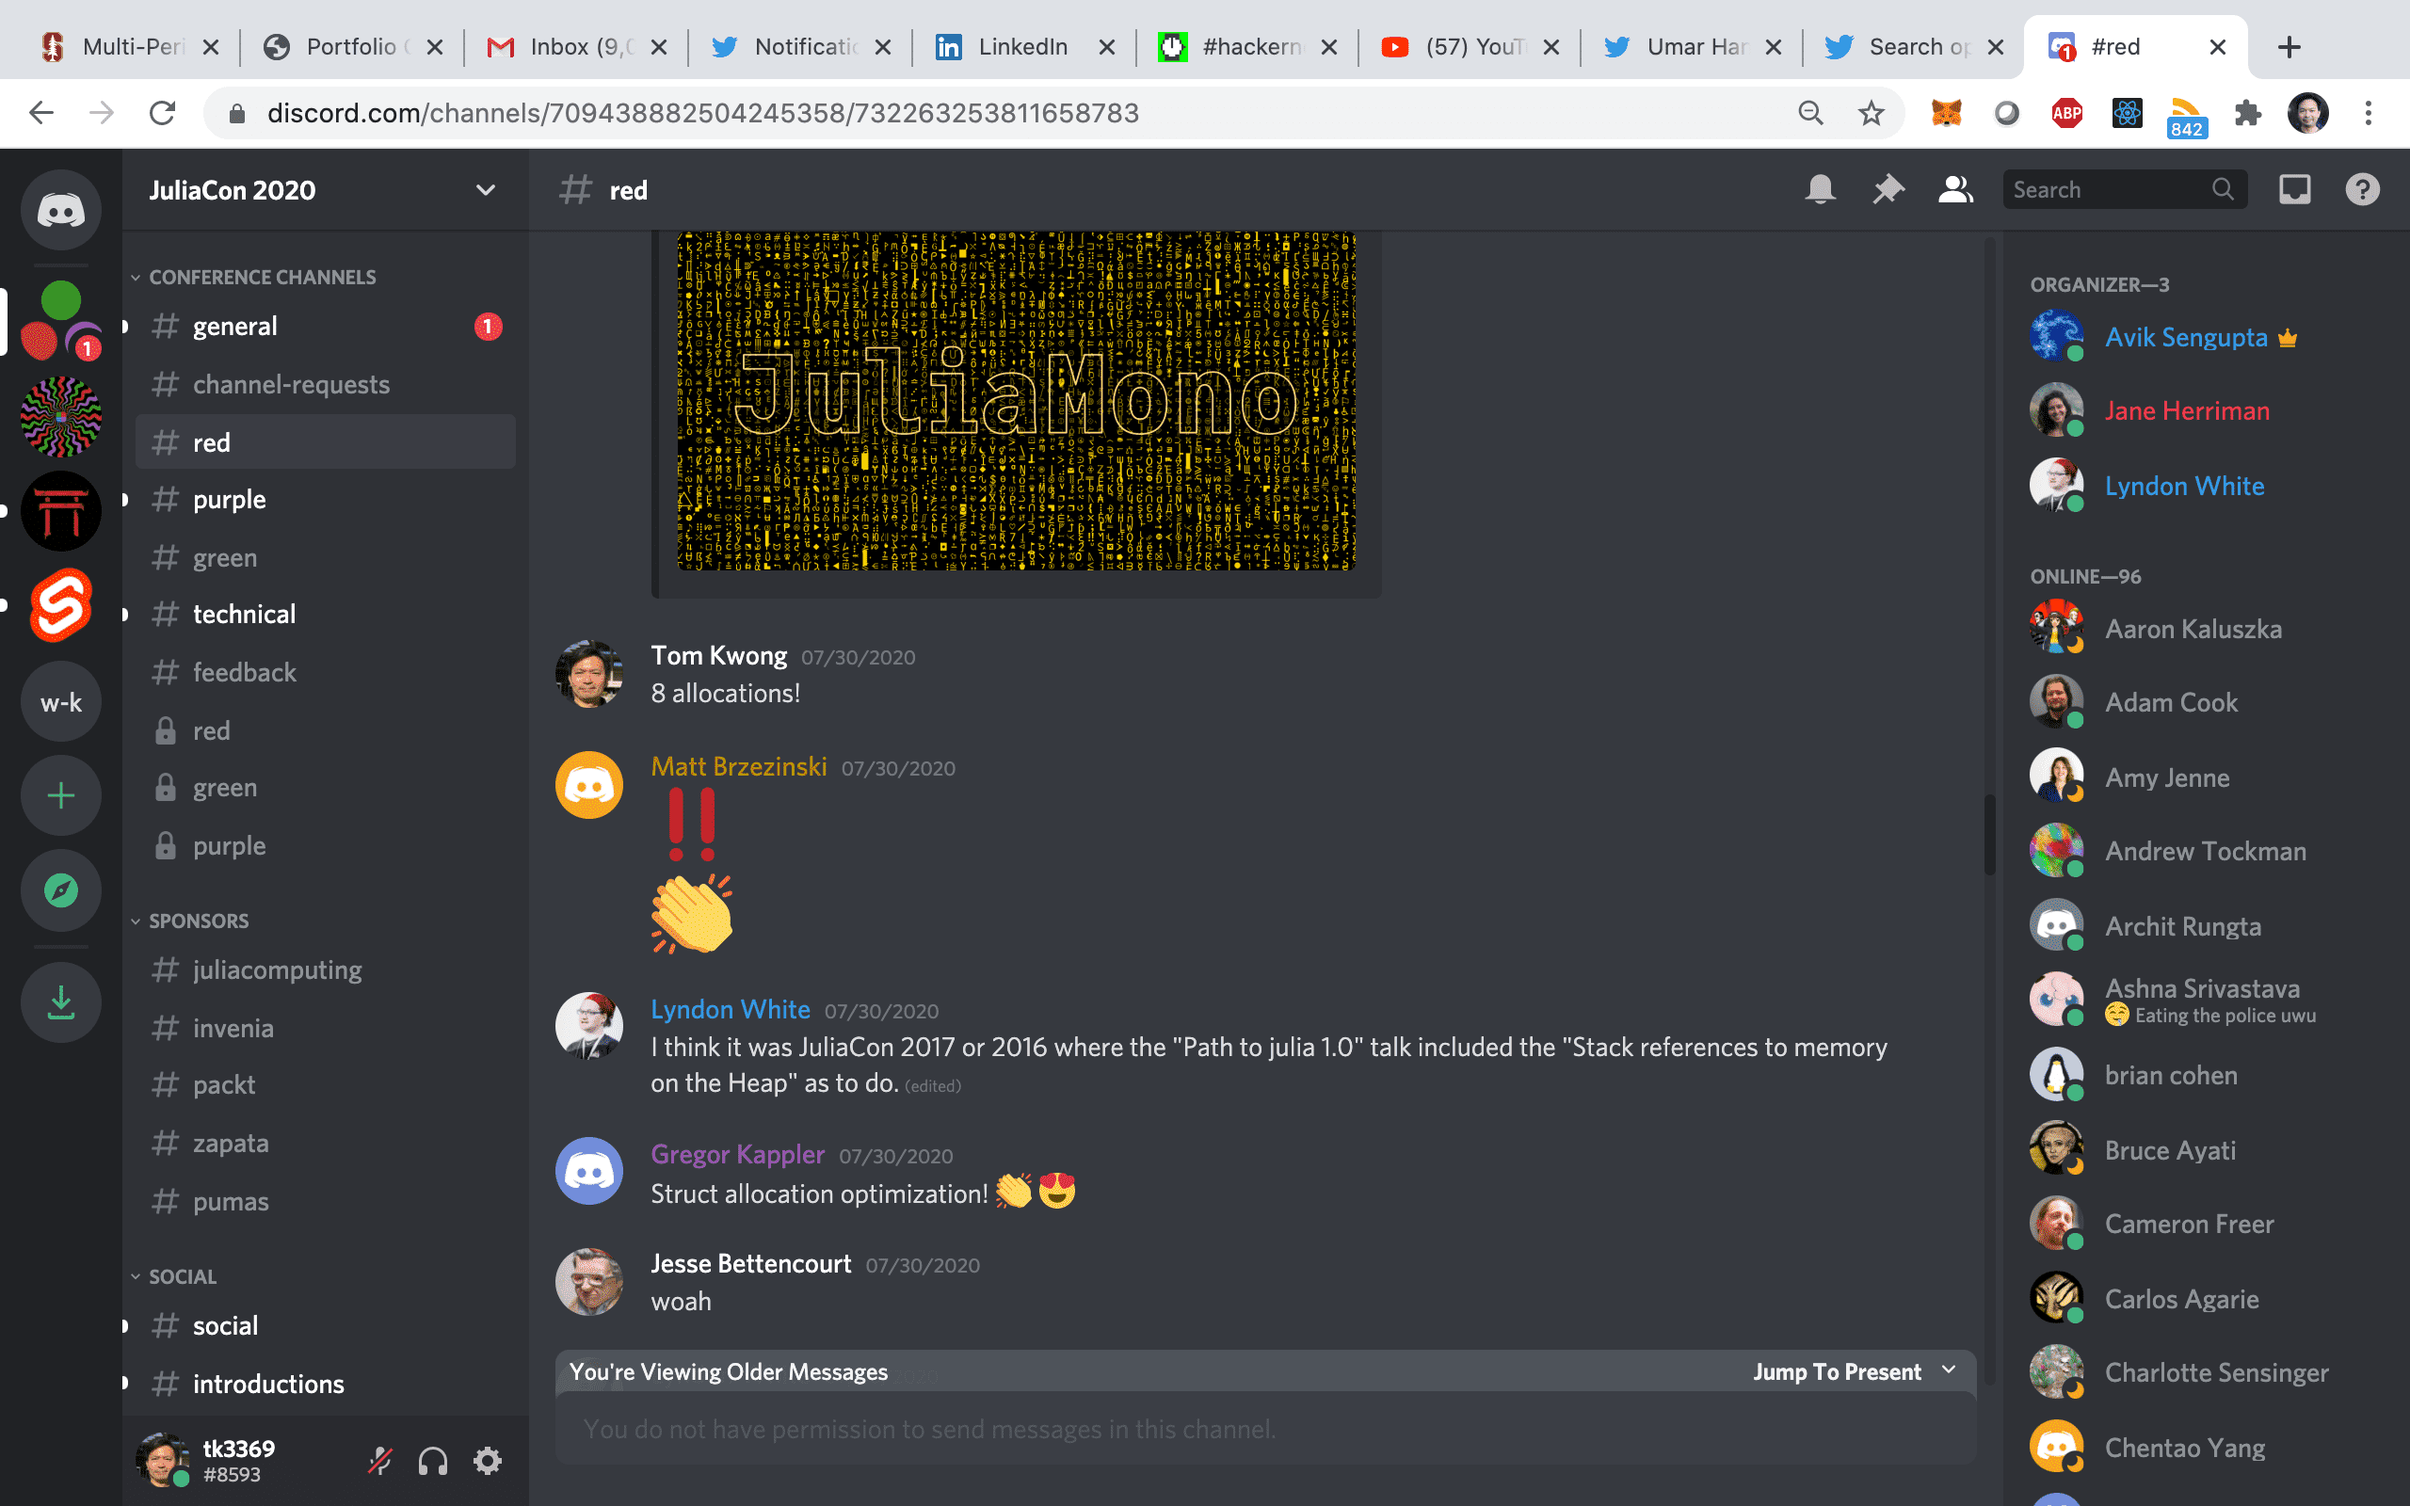
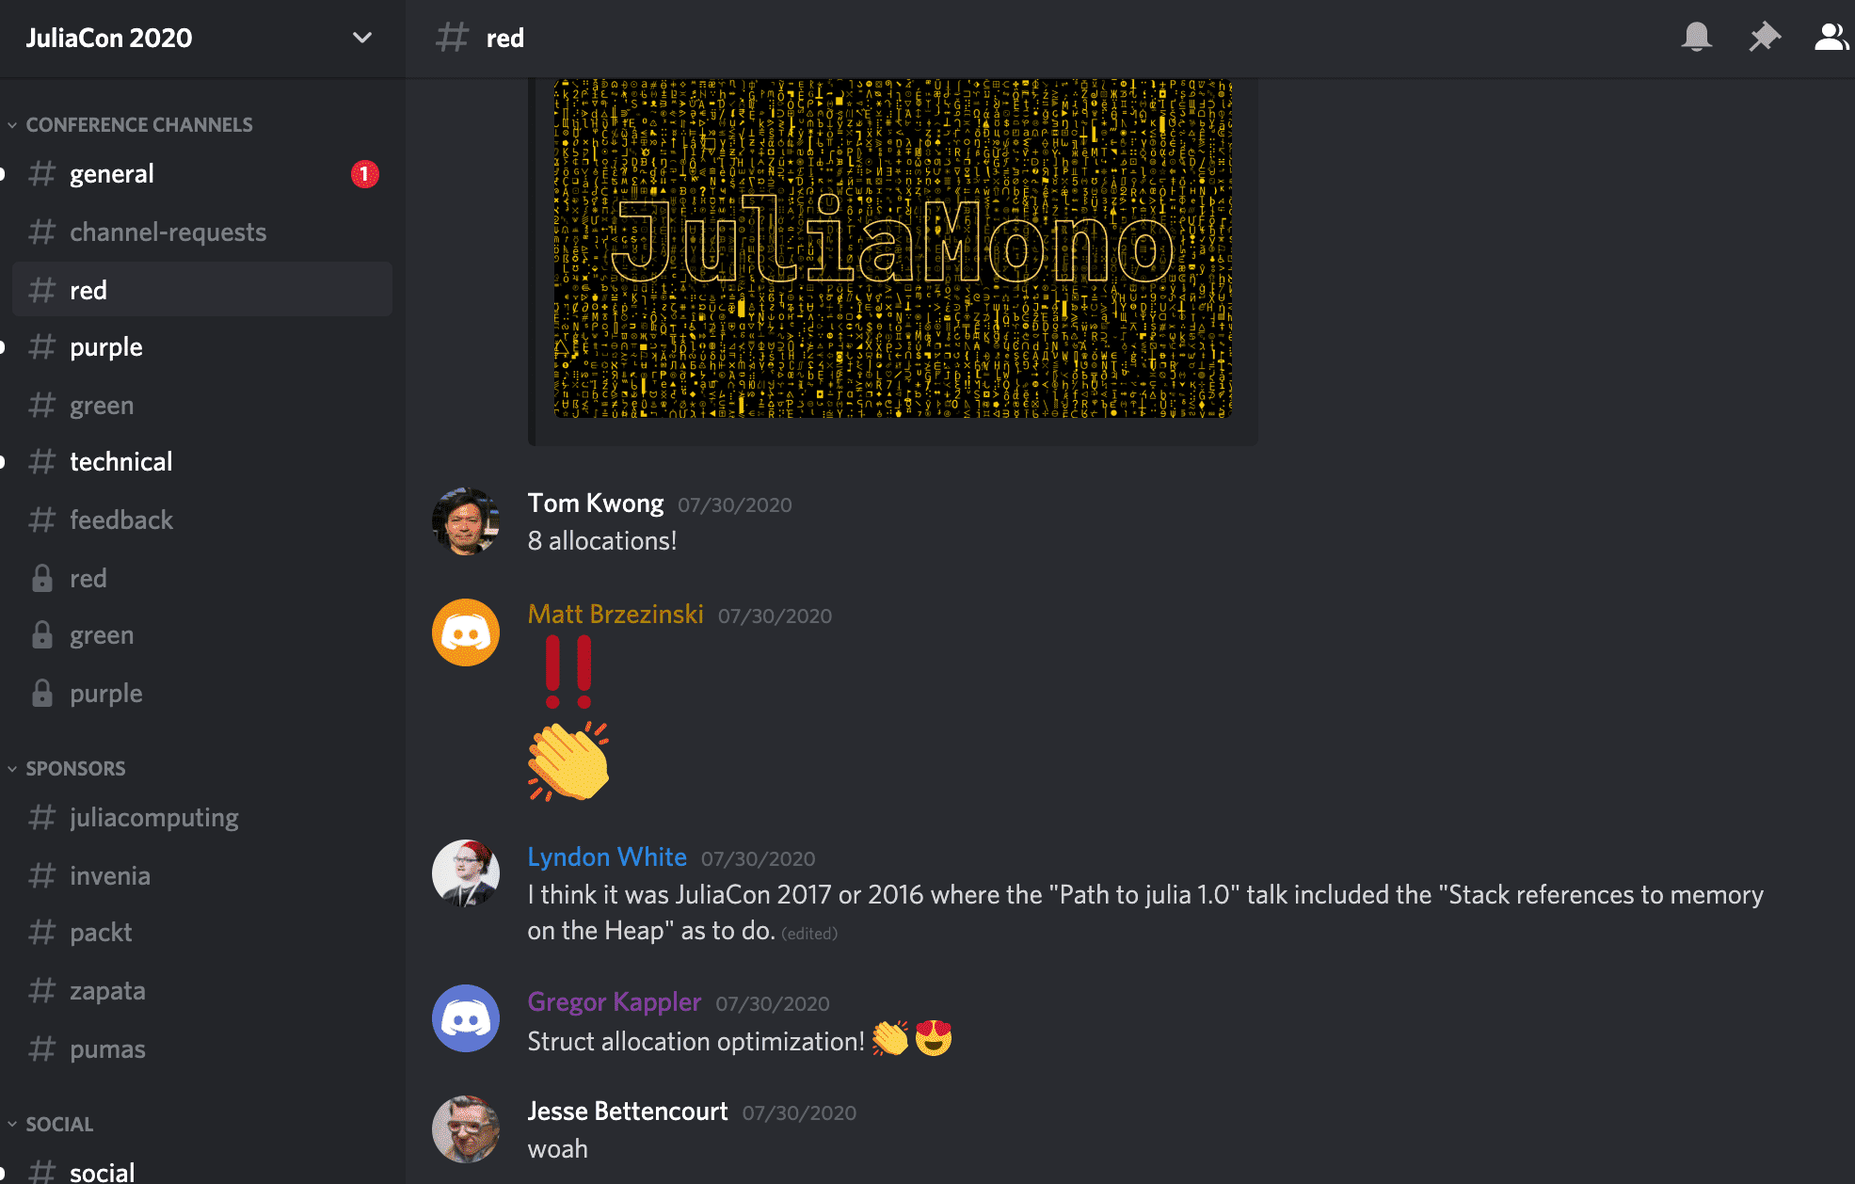
updated links and added discord image

diff --git a/pub/juliacon2020.md b/pub/juliacon2020.md
@@ -11,7 +11,7 @@
 
 The year of 2020 is interesting as the pandemic forces everyone to really think about how they communicate and work with each other. Technology conferences are hit particularly hard. As most people cannot travel anymore, and with the constraint of social distancing, it has become impractical to organize physical conferences anymore.
 
-I just finished JuliaCon 2020 and I had a great experience.  So I would like to share my thoughts here.
+I just finished [JuliaCon 2020](https://live.juliacon.org/) and I had a great experience.  So I would like to share my thoughts here.
 
 # The scale of being free and online!
 
@@ -23,13 +23,15 @@ To get a taste of the scale, JuliaCon 2019 had about 400 attendees. In 2020, ove
 
 It is known that the Julia Language has been doubling its users every year.  So there is already a popularity effect.  However, the combination of a free conference that anybody can participate online from anywhere in the world makes a huge difference.
 
+Reference: **_Julia has been downloaded more than 17 million times and is used at more than 1,500 universities_** from Julia Computing's [July 2020 newsletter](https://juliacomputing.com/blog/2020/07/17/julia-con.html). By constrast, the [July 2019 newsletter](https://juliacomputing.com/blog/2019/07/02/july-newsletter.html) claimed 9 million downloads.
+
 #  Extreme engagement during talks
 
 When you go to a physical conference, you usually attend a session by sitting there and watching the speaker talk for half an hour.  You probably keep quiet and possibly taking some notes during the talk. When the talk is finished, you may have a few minutes to chat with some people around you and share with each other about any thoughts of the the session.
 
 **At a virtual conference, the communication style is completely changed.**
 
-In particular, the JuliaCon organizers set up a Discord server as a primary chat platform. The talks were all pre-recorded (except keynotes) so that the videos can start and finish on time.
+In particular, the JuliaCon organizers set up a [Discord](https://discord.com/) server as a primary chat platform. The talks were all pre-recorded (except keynotes) so that the videos can start and finish on time.
 
 **Now, two interesting things happen as everyone watched the talk at the same time:**
 
@@ -38,9 +40,11 @@ In particular, the JuliaCon organizers set up a Discord server as a primary chat
 
 **That's an important change in dynamics.** Never before, the speaker of the talk is able to engage with such a wide spectrum of audience and have a meaningful conversation online, in real-time.
 
+![discord](/assets/pages/juliacon2020/juliacon_discord3.png)
+
 # Posters are really lightning talks
 
-If I were able to attend the conference at Lisbon, I would have prepared two large posters for my [BinaryTraits.jl](https://github.com/tk3369/BinaryTraits.jl) and [ContextTracking.jl](https://github.com/tk3369/ContextTracking.jl) packages. Since the conference became online, I have to create PDF files that is optimized for online viewing.  In other words, they look more like slides than posters.
+If I were to attend the conference at Lisbon, I would have prepared two large posters for my [BinaryTraits.jl](https://github.com/tk3369/BinaryTraits.jl) and [ContextTracking.jl](https://github.com/tk3369/ContextTracking.jl) packages. Since the conference became online, I have to create PDF files that is optimized for online viewing.  In other words, they look more like slides than posters.
 
 ![posters](/assets/pages/juliacon2020/juliacon_my_posters.png)
 
